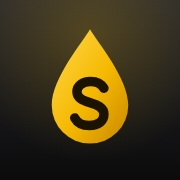
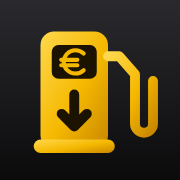
Neues App-Symbol: Zapfsäule mit Euro und Pfeil nach unten
Claude-Session: https://claude.ai/code/session_01D9w7za75Av1PnbJTpzwXvT

diff --git a/docs/index.html b/docs/index.html
@@ -299,11 +299,15 @@ input{width:100%;font:inherit;font-size:16px;padding:11px 12px;border-radius:11p
     <svg class="logo" viewBox="0 0 40 40" aria-hidden="true">
       <defs>
         <linearGradient id="lgGold" x1="0" y1="0" x2="1" y2="1"><stop offset="0" stop-color="#ffd84d"/><stop offset=".55" stop-color="#f5b800"/><stop offset="1" stop-color="#c88700"/></linearGradient>
-        <linearGradient id="lgBg" x1="0" y1="0" x2="0" y2="1"><stop offset="0" stop-color="#2a2a2e"/><stop offset="1" stop-color="#0b0b0c"/></linearGradient>
+    <linearGradient id="lgBg" x1="0" y1="0" x2="0" y2="1"><stop offset="0" stop-color="#2a2a2e"/><stop offset="1" stop-color="#0b0b0c"/></linearGradient>
       </defs>
       <rect width="40" height="40" rx="10" fill="url(#lgBg)"/>
-      <path d="M20 6.5C18.4 9.3 11.5 17.4 11.5 23.4a8.5 8.5 0 0 0 17 0C28.5 17.4 21.6 9.3 20 6.5z" fill="url(#lgGold)"/>
-      <path d="M23.1 19.6c-.6-1-1.7-1.5-3-1.5-1.8 0-3 1-3 2.3 0 3 6 1.9 6 5 0 1.5-1.3 2.5-3.2 2.5-1.5 0-2.7-.6-3.3-1.7" fill="none" stroke="#1b1300" stroke-width="2.1" stroke-linecap="round"/>
+      <rect x="9" y="7" width="15" height="26" rx="3" fill="url(#lgGold)"/>
+  <rect x="7.5" y="31" width="18" height="3" rx="1.5" fill="url(#lgGold)"/>
+  <rect x="11.5" y="10" width="10" height="7.5" rx="1.5" fill="#1b1300"/>
+  <path d="M18.6 11.9a2.6 2.6 0 1 0 0 3.7M13.6 13.3h3.6M13.6 14.5h3.6" fill="none" stroke="#f5b800" stroke-width=".9" stroke-linecap="round"/>
+  <path d="M24 12.5h2.5l3.5 4v11a2 2 0 0 0 4 0V18" fill="none" stroke="url(#lgGold)" stroke-width="2.2" stroke-linecap="round" stroke-linejoin="round"/>
+  <path d="M16.5 21v7M13.7 25.3l2.8 2.8 2.8-2.8" fill="none" stroke="#1b1300" stroke-width="2.2" stroke-linecap="round" stroke-linejoin="round"/>
     </svg>
     <div class="wordmark">Schwabensprit</div>
   </div>
